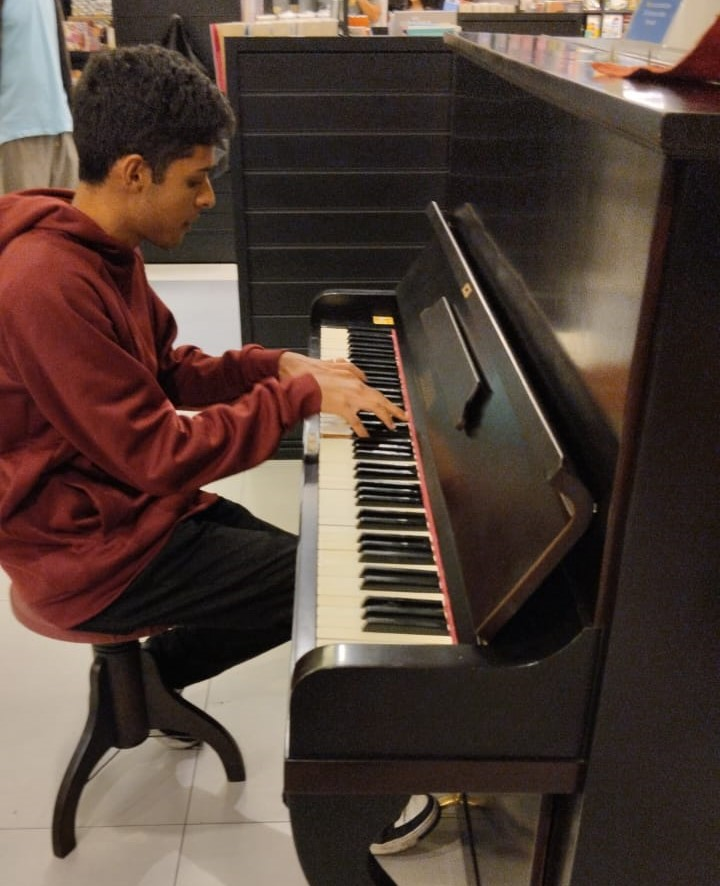
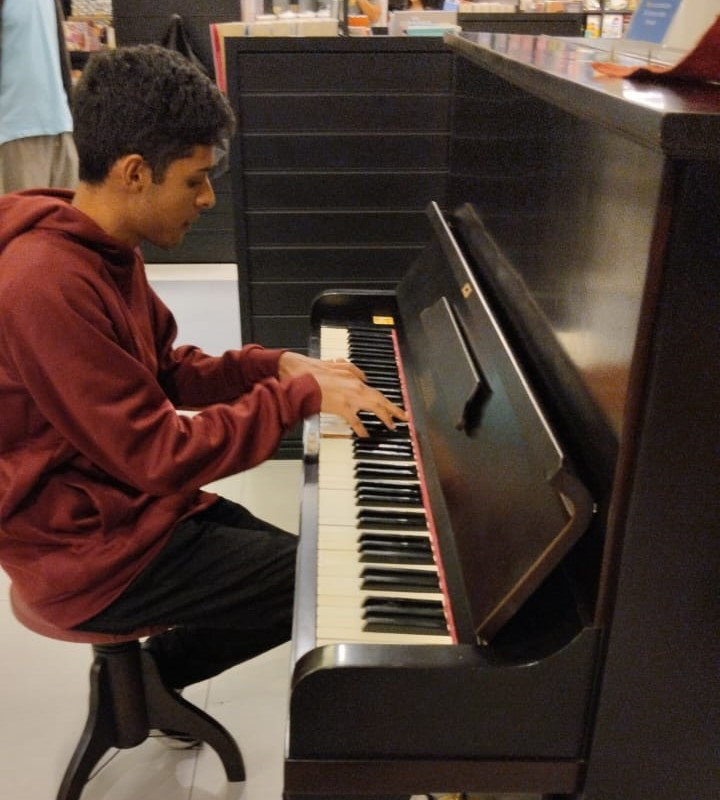
Mexendo com JS -> 01-07-2025 -> 22:35

diff --git a/index.html b/index.html
@@ -29,13 +29,13 @@
             <h2 class="subtitulos">Atividades Preferidas</h2>
             <section class="sectionAtividade">
                 <ul>
-                    <li>Tocar Piano &#x1F3B9;</li>
-                    <li>Caminhar no parque &#x1F6B6;</li>
-                    <li>Jogar Futebol &#x26BD;</li>
+                    <li id="piano">Tocar Piano &#x1F3B9;</li>
+                    <li id="caminhar">Caminhar no parque &#x1F6B6;</li>
+                    <li id="futebol">Jogar Futebol &#x26BD;</li>
                 </ul>
                 <picture>
-                    <img src="imagens/Tocando Piano.jpeg" alt="Minha Foto tocando Piano" class="imgAtividade">
-                    <p class="legenda">Minha imagem tocando piano</p>
+                    <img src="imagens/Tocando Piano.jpeg" alt="Minha Foto tocando Piano" class="imgAtividade" id="imgHobbie">
+                    <p class="legenda" id="textoLegenda">Minha foto tocando piano</p>
                 </picture>
             </section>
         </section>
@@ -65,6 +65,7 @@
         <p>Projeto Desenvolvido por Miguel Oliveira</p>
     </footer>
 
+    <script src="js/script.js"></script>
 </body>
 
 </html>

diff --git a/js/script.js b/js/script.js
@@ -1,0 +1,20 @@
+const piano = document.querySelector("#piano");
+const caminhar = document.querySelector("#caminhar");
+const futebol = document.querySelector("#futebol");
+var imgHobbie = document.querySelector("#imgHobbie");
+var legenda = document.querySelector("#textoLegenda");
+
+piano.addEventListener("click", () => {
+    imgHobbie.src = "../imagens/Tocando Piano.jpeg";
+    legenda.innerHTML = "Minha foto tocando piano";
+});
+
+caminhar.addEventListener("click", () => {
+    imgHobbie.src = "../imagens/parque-bacacheri.jpg";
+    legenda.innerHTML = "Foto do parque Bacacheri";
+});
+
+futebol.addEventListener("click", () => {
+    imgHobbie.src = "../imagens/jogando-futebol.jpeg";
+    legenda.innerHTML = "Foto de uma bola de futebol";
+});

diff --git a/css/style.css b/css/style.css
@@ -85,7 +85,7 @@ main p.biografia {
     line-height: 1.3;
 }
 
-/* Section atividade */
+/* Section Todas atividade */
 main > section.sectionTodasAtividades {
     background-color: var(--cor3);
     padding: 20px 0;
@@ -132,8 +132,9 @@ main > section.sectionTodasAtividades > section.sectionAtividade ul > li:hover {
 /* Imagem da atividade */
 main > section.sectionTodasAtividades > section.sectionAtividade > picture > img.imgAtividade {
     width: 100%;
+    height: 50%;
     border-radius: 90px;
-    
+    transition: 0.7s;
 }
 main > section.sectionTodasAtividades > section.sectionAtividade > picture {
     width: 30%;
